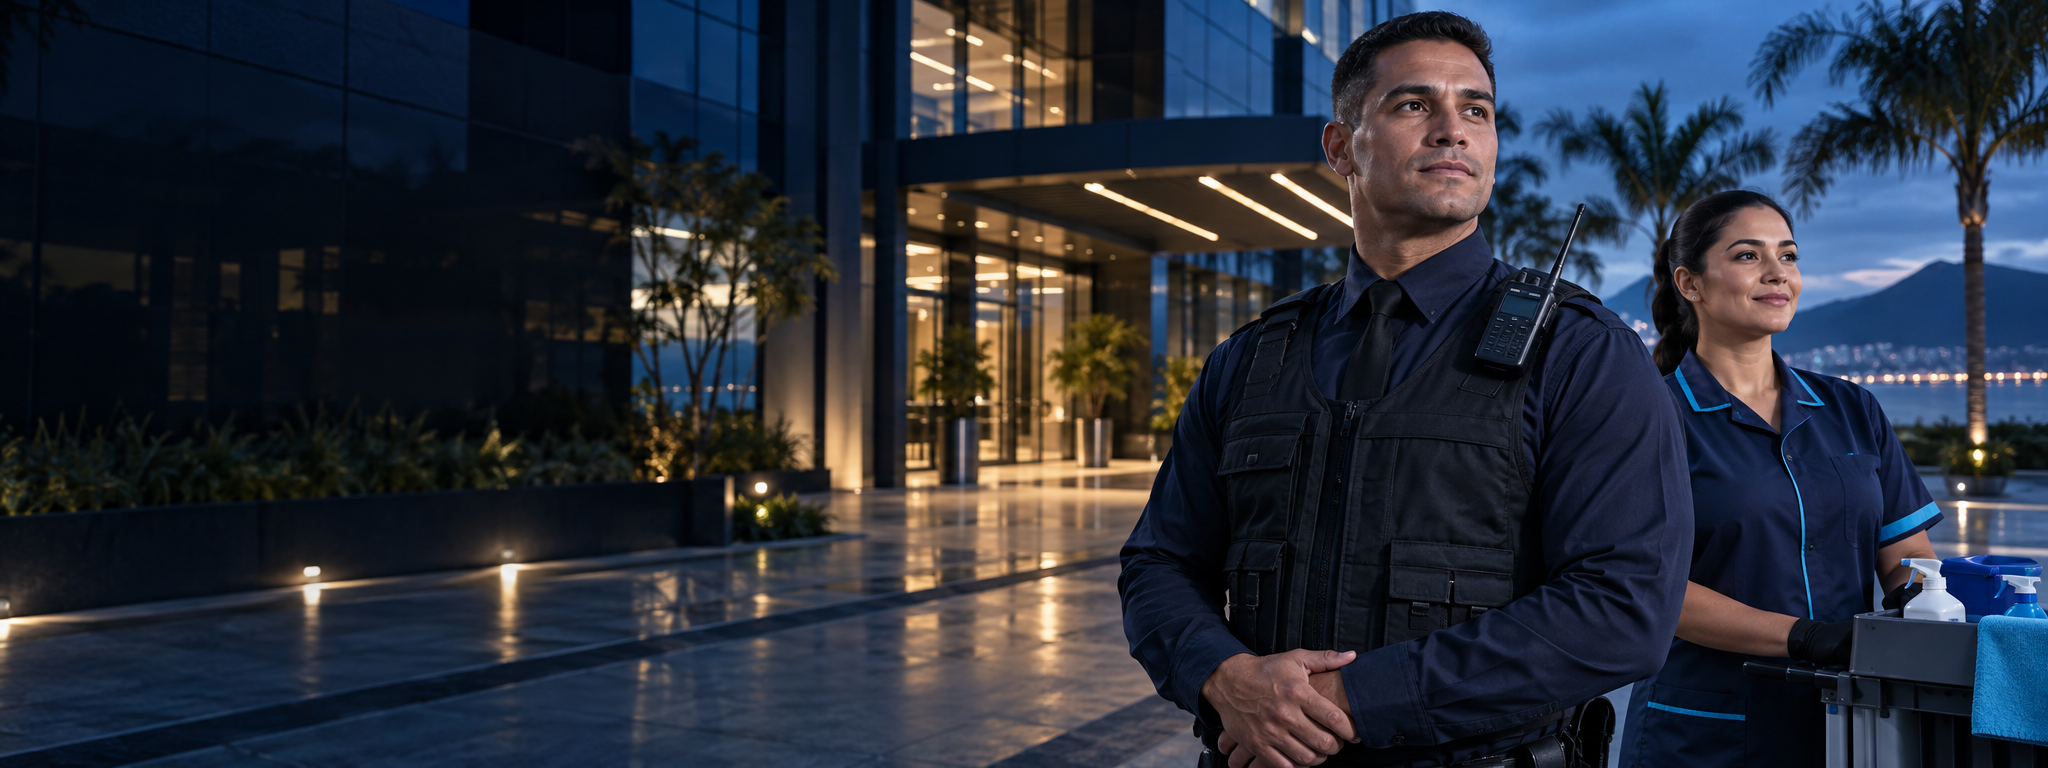
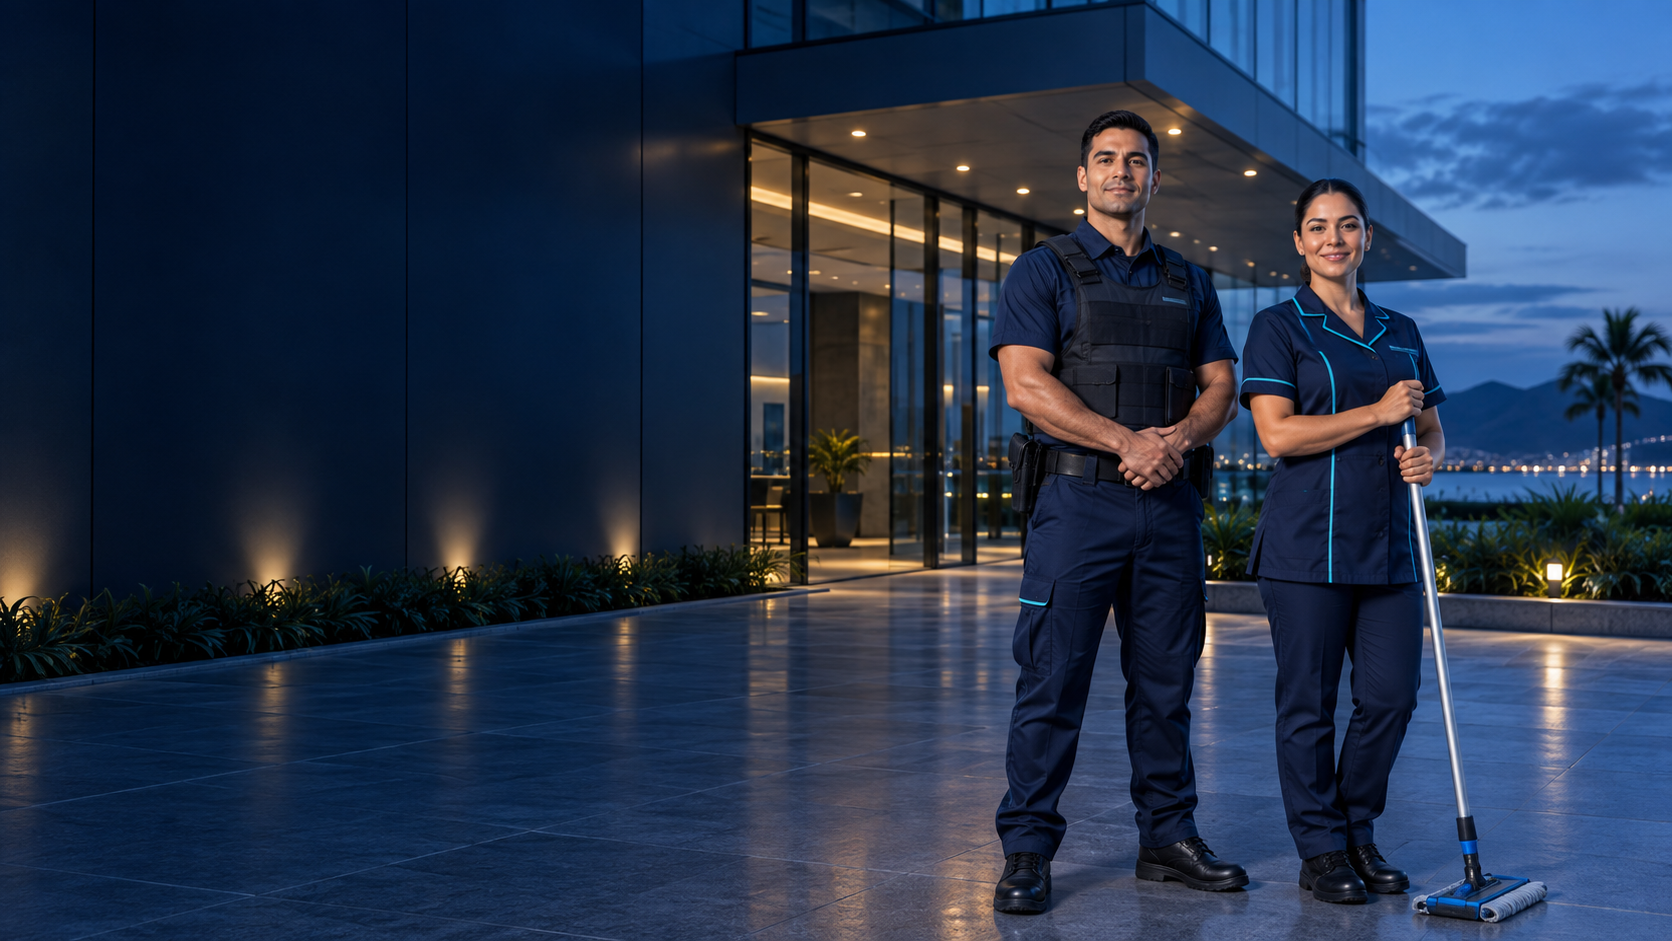
Improve hero image framing

diff --git a/app/globals.css b/app/globals.css
@@ -41,7 +41,7 @@ em { color:var(--cyan); font-weight:400; }
 .hero-meta span { display:flex; align-items:center; gap:8px; }
 .hero-meta svg { width:17px; color:var(--cyan); }
 .hero-visual { position:relative; height:580px; }
-.hero-image { position:absolute; inset:0; background-image:linear-gradient(90deg,var(--navy) 0%,transparent 35%),linear-gradient(0deg,var(--navy) 0%,transparent 35%),url('/hero-staff.png'); background-size:cover; background-position:center; clip-path:polygon(16% 0,100% 0,100% 84%,82% 100%,0 100%,0 16%); filter:saturate(.85) contrast(1.03); }
+.hero-image { position:absolute; inset:0; background-image:linear-gradient(90deg,var(--navy) 0%,transparent 30%),linear-gradient(0deg,var(--navy) 0%,transparent 27%),url('/hero-staff.png'); background-size:cover; background-position:85% center; clip-path:polygon(16% 0,100% 0,100% 84%,82% 100%,0 100%,0 16%); filter:saturate(.88) contrast(1.03); }
 .hero-badge { position:absolute; right:-10px; bottom:62px; width:145px; height:145px; border-radius:50%; background:var(--cyan); color:var(--navy); display:flex; flex-direction:column; align-items:center; justify-content:center; box-shadow:0 25px 70px rgba(0,0,0,.24); animation:float 4s ease-in-out infinite; }
 .hero-badge b { text-transform:uppercase; font-size:12px; letter-spacing:.16em; }.hero-badge span { font-family:Georgia,serif; font-size:26px; font-style:italic; }
 .orbit { position:absolute; border-radius:50%; border:1px solid rgba(98,219,255,.35); }.orbit-one { width:60px;height:60px;left:-25px;top:48px }.orbit-two { width:16px;height:16px;left:18px;top:18px;background:var(--cyan); }
@@ -71,5 +71,5 @@ em { color:var(--cyan); font-weight:400; }
 @keyframes heroIn{to{opacity:1;transform:none}}@keyframes float{50%{transform:translateY(-10px)}}
 
 @media(max-width:900px){.shell{width:min(100% - 32px,700px)}.nav{display:none;position:absolute;top:88px;left:0;right:0;background:#071d3f;padding:25px 16px;flex-direction:column;align-items:stretch}.nav.is-open{display:flex}.menu-button{display:block}.hero,.hero-inner{min-height:auto}.hero-inner{grid-template-columns:1fr;padding-top:145px;padding-bottom:80px}.hero-visual{height:480px}.section{padding:90px 0}.section-heading,.difference-grid,.about-grid,.contact-card{grid-template-columns:1fr;gap:46px}.section-heading{align-items:start}.service-grid{grid-template-columns:1fr}.service-card{min-height:500px}.about-grid{gap:55px}.about-visual{min-height:400px}.contact-card{padding:50px 34px}.footer-inner{flex-direction:column;text-align:center}}
-@media(max-width:560px){.shell{width:calc(100% - 28px)}.header-inner{height:74px}.brand-mark{width:40px;height:40px}.brand-copy b{font-size:24px}.brand-copy small{font-size:7px}.nav{top:74px}.hero-inner{padding-top:120px;gap:38px}.hero h1{font-size:52px}.hero-lead{font-size:16px}.hero-actions{align-items:stretch;flex-direction:column;gap:20px}.button{width:100%}.hero-meta{flex-direction:column;gap:12px;margin-top:32px}.hero-visual{height:360px}.hero-badge{width:112px;height:112px;right:-2px;bottom:28px}.hero-badge span{font-size:21px}.section{padding:75px 0}.section h2{font-size:44px}.section-heading{gap:22px;margin-bottom:40px}.service-card{padding:28px;min-height:500px}.service-card a{left:28px}.difference-item{grid-template-columns:34px 1fr 22px}.difference-item p{font-size:18px}.about-visual{padding:38px;min-height:350px}.about-number{font-size:84px}.contact-card{padding:42px 24px;margin-inline:-1px}.contact h2{font-size:42px}.contact-info span{font-size:14px}.footer .brand{display:none}}
+@media(max-width:560px){.shell{width:calc(100% - 28px)}.header-inner{height:74px}.brand-mark{width:40px;height:40px}.brand-copy b{font-size:24px}.brand-copy small{font-size:7px}.nav{top:74px}.hero-inner{padding-top:120px;gap:38px}.hero h1{font-size:52px}.hero-lead{font-size:16px}.hero-actions{align-items:stretch;flex-direction:column;gap:20px}.button{width:100%}.hero-meta{flex-direction:column;gap:12px;margin-top:32px}.hero-visual{height:360px}.hero-image{background-position:82% center}.hero-badge{width:112px;height:112px;right:-2px;bottom:28px}.hero-badge span{font-size:21px}.section{padding:75px 0}.section h2{font-size:44px}.section-heading{gap:22px;margin-bottom:40px}.service-card{padding:28px;min-height:500px}.service-card a{left:28px}.difference-item{grid-template-columns:34px 1fr 22px}.difference-item p{font-size:18px}.about-visual{padding:38px;min-height:350px}.about-number{font-size:84px}.contact-card{padding:42px 24px;margin-inline:-1px}.contact h2{font-size:42px}.contact-info span{font-size:14px}.footer .brand{display:none}}
 @media(prefers-reduced-motion:reduce){html{scroll-behavior:auto}.hero-enter,.reveal,.hero-badge{animation:none!important;transition:none!important;opacity:1;transform:none}}
